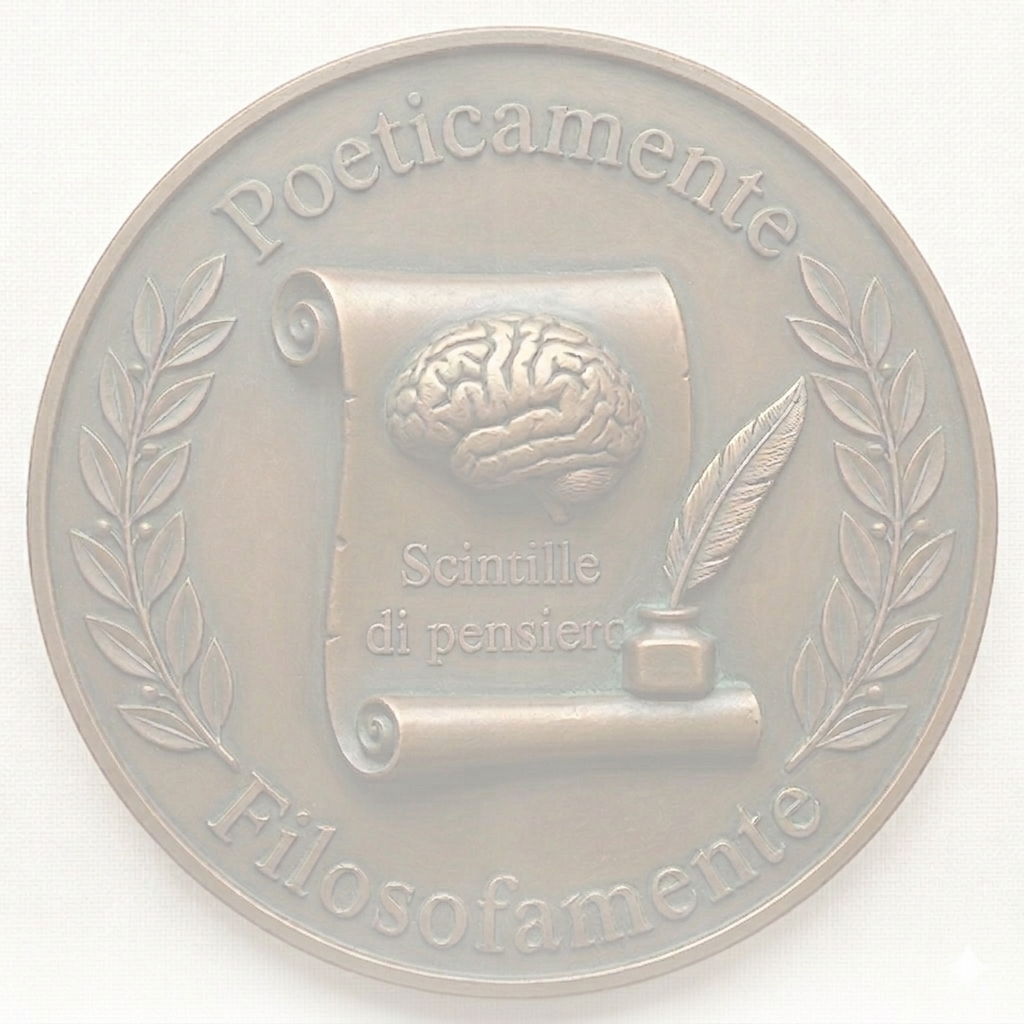
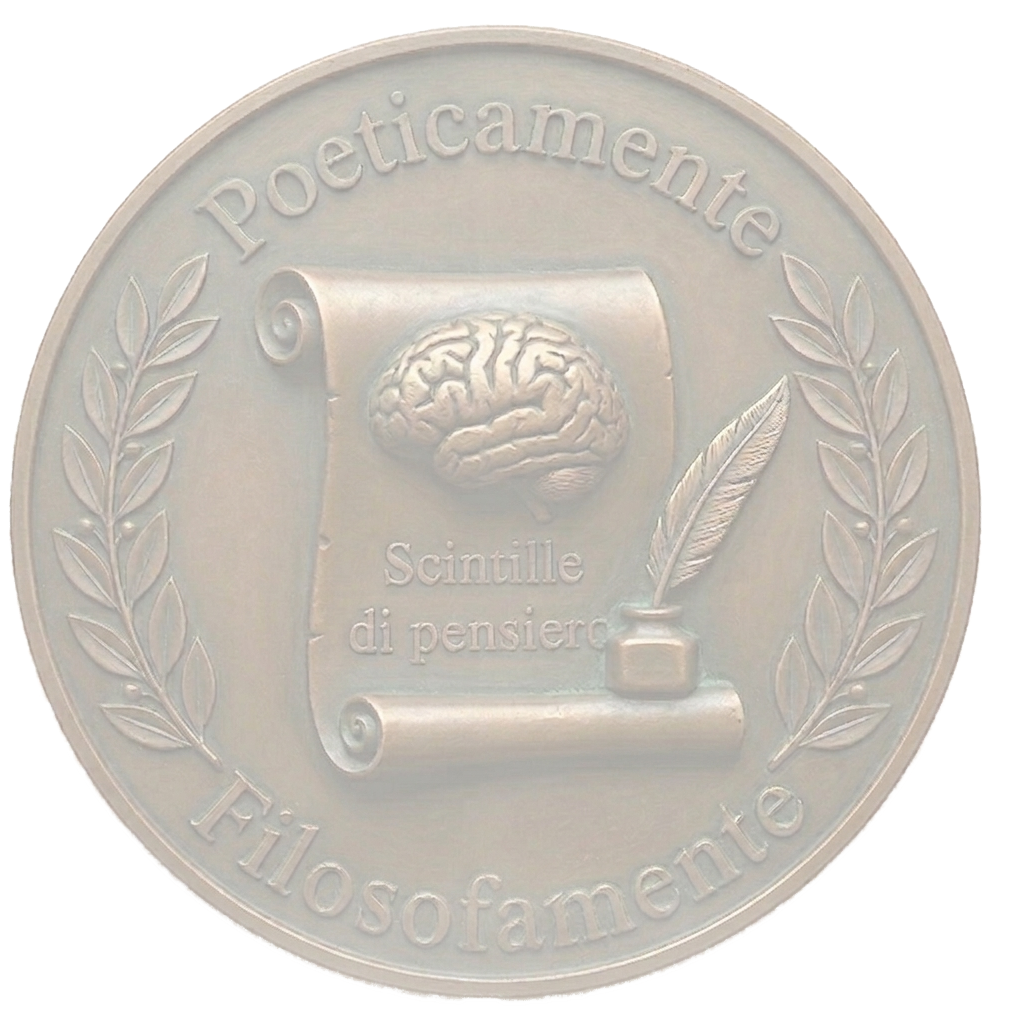
Allineamento finale immagini e percorsi

diff --git a/style.css b/style.css
@@ -1,4 +1,4 @@
-/* style.css - Versione Finale: Login Minimal + Premio 3D Fronte-Retro */
+/* style.css - Versione Definitiva con Firma Brush Script e Sfondo Ottimizzato */
 @import url('https://fonts.googleapis.com/css2?family=EB+Garamond:ital,wght@0,400;0,500;1,400&family=Playfair+Display:ital,wght@0,600;1,600&display=swap');
 
 /* Sfondo carta globale */
@@ -9,13 +9,14 @@
     font-family: 'EB Garamond', serif !important; 
 }
 
-/* SFONDO IMMERSIVO - Logo a destra, zero riquadri */
+/* SFONDO IMMERSIVO - Spostato a destra e senza ritagli bianchi */
 [data-testid="stAppViewContainer"] {
     background-image: url("https://raw.githubusercontent.com/fosforino/Poeticamente/main/Poeticamente.png") !important;
     background-attachment: fixed;
-    background-position: center right !important; 
     background-repeat: no-repeat !important;
+    /* Manteniamo la dimensione 115% ma posizioniamo al 95% per spingerlo a destra */
     background-size: 115% auto !important;
+    background-position: 95% center !important; 
 }
 
 /* Header e Navigazione silenziati */
@@ -23,7 +24,7 @@
 header { visibility: hidden; }
 [data-testid="stSidebarNav"] { display: none; }
 
-/* TITOLO "ID" - Elegante e distanziato */
+/* TITOLO "ID" */
 .titolo-id {
     font-family: 'Playfair Display', serif;
     color: #3e2723;
@@ -35,115 +36,70 @@ header { visibility: hidden; }
     text-shadow: 2px 2px 4px rgba(255, 252, 240, 0.8);
 }
 
-/* --- FORM DINAMICI ULTRA-CORTI (Effetto Scomparsa) --- */
+/* FORM DINAMICI (120px -> 450px) */
 div[data-testid="stTextInput"] {
     transition: width 0.7s cubic-bezier(0.19, 1, 0.22, 1) !important;
-    width: 120px !important; /* Molto stretto a riposo per liberare lo sfondo */
+    width: 120px !important;
     margin-bottom: 10px !important;
-    min-height: 85px !important; /* Stabilità verticale anti-tremolio */
+    min-height: 85px !important;
 }
-
-/* Espansione al passaggio o al click */
 div[data-testid="stTextInput"]:hover,
 div[data-testid="stTextInput"]:focus-within {
     width: 450px !important; 
 }
 
-/* Stile interno dei campi (Linee sottili) */
 .stTextInput input {
     background-color: rgba(255, 255, 255, 0.05) !important;
     border: none !important;
     border-bottom: 1px solid rgba(62, 39, 35, 0.3) !important;
     border-radius: 0px !important;
     color: #3e2723 !important;
-    transition: background-color 0.4s ease !important;
 }
 
-.stTextInput input:focus {
-    background-color: rgba(255, 255, 255, 0.8) !important;
-    border-bottom: 1px solid #3e2723 !important;
-}
-
-/* Checkbox e Button */
-.stCheckbox { background: transparent !important; opacity: 0.8; }
-div.stButton > button {
-    border-radius: 0px !important;
-    border: 1px solid #3e2723 !important;
-    background-color: transparent !important;
-    color: #3e2723 !important;
-    transition: all 0.3s !important;
-}
-div.stButton > button:hover {
-    background-color: #3e2723 !important;
-    color: #fdf5e6 !important;
-}
-
-/* --- NUOVO MEDAGLIONE FRONTE-RETRO (Il Sandwich 3D) --- */
+/* MEDAGLIONE 3D */
 .medaglione-3d-container {
-    perspective: 1000px; /* Crea la profondità 3D */
+    perspective: 1000px;
     width: 300px;
     height: 300px;
     margin: 50px auto;
 }
-
 .card-3d {
     width: 100%;
     height: 100%;
     position: relative;
-    transform-style: preserve-3d; /* Mantiene gli elementi figli in 3D */
-    animation: rotazione-totale 12s linear infinite; /* Rotazione continua */
+    transform-style: preserve-3d;
+    animation: rotazione-totale 12s linear infinite;
 }
-
 .faccia {
     position: absolute;
     width: 100%;
     height: 100%;
-    backface-visibility: hidden; /* Nasconde il retro quando è girato */
-    border-radius: 50%; /* Medaglione tondo */
+    backface-visibility: hidden;
+    border-radius: 50%;
     display: flex;
     justify-content: center;
     align-items: center;
-    border: 8px solid #b87333; /* Bordo Bronzo solido */
-    box-shadow: 0 15px 35px rgba(0,0,0,0.5); /* Ombra profonda */
+    border: 8px solid #b87333;
+    box-shadow: 0 15px 35px rgba(0,0,0,0.5);
 }
-
-/* FACCIA DAVANTI: Mostra il Logo */
-.fronte {
-    background: #fdf5e6; /* Sfondo chiaro per far risaltare il logo */
-    transform: rotateY(0deg); /* Posizione iniziale */
-    overflow: hidden;
-}
-.fronte img {
-    width: 100%;
-    height: auto;
-    object-fit: cover;
-}
-
-/* FACCIA DIETRO: Mostra la Firma */
+.fronte { background: #fdf5e6; transform: rotateY(0deg); overflow: hidden; }
+.fronte img { width: 100%; height: auto; object-fit: cover; }
 .retro {
-    /* Gradiente metallico per simulare il bronzo spazzolato */
     background: linear-gradient(145deg, #b87333 0%, #a1887f 50%, #8d5524 100%);
-    transform: rotateY(180deg); /* Ruotata di 180 gradi di base */
+    transform: rotateY(180deg);
     color: #fdf5e6;
     font-family: 'Playfair Display', serif;
     font-size: 1.8rem;
-    font-weight: bold;
     text-align: center;
-    text-shadow: 2px 2px 4px rgba(0,0,0,0.3);
 }
-
-/* Specchiamo il testo perché il retro nasce 'al contrario' */
-.testo-retro {
-    transform: scaleX(-1); 
-    letter-spacing: 2px;
-}
+.testo-retro { transform: scaleX(-1); letter-spacing: 2px; }
 
 @keyframes rotazione-totale {
     from { transform: rotateY(0deg); }
     to { transform: rotateY(360deg); }
 }
 
-/* --- PERGAMENA DEDICA (Inalterata) --- */
+/* PERGAMENA E FIRMA D'AUTORE */
 .pergamena-dedica {
     background: rgba(255, 253, 248, 0.95);
     padding: 40px;
@@ -154,11 +110,14 @@ div.stButton > button:hover {
     text-align: center;
     position: relative;
 }
+
 .firma-fosforino {
-    font-family: 'Aura', cursive, serif; 
+    /* Allineato al tuo Photoshop: Brush Script MT */
+    font-family: 'Brush Script MT', 'Brush Script Std', cursive !important;
     color: #a1887f;
     position: absolute;
     bottom: 15px;
     right: 25px;
+    font-size: 2rem !important;
     font-style: italic;
 }

diff --git a/pages/Premio.py b/pages/Premio.py
@@ -1,23 +1,21 @@
-# pages/Premio.py
 import streamlit as st
 
 def show():
-    # Titolo della pagina
-    st.markdown("<h1 style='text-align: center; color: #3e2723; font-family: \"Playfair Display\";'>Il Tuo Riconoscimento Poetetico</h1>", unsafe_allow_html=True)
+    # Titolo della pagina - Coerente con la SEO "Poeticamente"
+    st.markdown("<h1 style='text-align: center; color: #3e2723; font-family: \"Playfair Display\";'>Il Tuo Riconoscimento</h1>", unsafe_allow_html=True)
     st.markdown("---")
 
-    # --- IL MOTORE DEL MEDAGLIONE FRONTE-RETRO ---
-    # Questa struttura HTML crea il "sandwich 3D" controllato dal CSS
+    # --- MOTORE 3D: IL SANDWICH DELLE TUE GRAFICHE ---
     st.markdown("""
         <div class="medaglione-3d-container">
             <div class="card-3d">
                 
                 <div class="faccia fronte">
-                    <img src="https://raw.githubusercontent.com/fosforino/Poeticamente/main/Poeticamente.png">
+                    <img src="https://raw.githubusercontent.com/fosforino/Poeticamente/main/Poeticamente_Fronte.png">
                 </div>
                 
-                <div class="faccia retro">
-                    <div class="testo-retro">by fosforino</div>
+                <div class="faccia retro-immagine">
+                    <img src="https://raw.githubusercontent.com/fosforino/Poeticamente/main/Poeticamente_Retro.png">
                 </div>
                 
             </div>
@@ -31,11 +29,13 @@ def show():
                 <i>"A chi ha saputo trasformare il silenzio in inchiostro,<br>
                 e il pensiero in un'opera senza tempo."</i>
             </p>
-            <p style="font-size: 1.1rem; color: #795548; margin-top: 20px;">
-                Con stima e ammirazione,<br>
-                la Comunità di Poeticamente.
+            <p style="font-size: 1.1rem; color: #795548; margin-top: 25px;">
+                Un riconoscimento da parte di chi crede nel valore<br>
+                <b>dell'Alchimia tra il Pensiero e il Verso.</b>
             </p>
-            <div class="firma-fosforino">by fosforino</div>
+            <div class="firma-fosforino">
+                fosforino
+            </div>
         </div>
     """, unsafe_allow_html=True)
 
